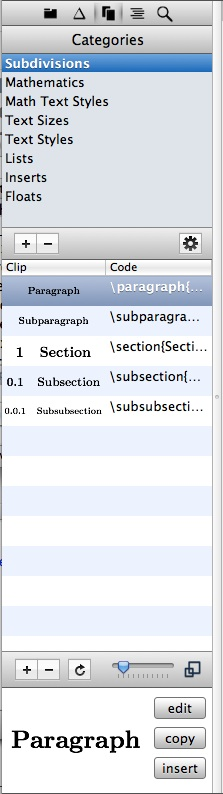
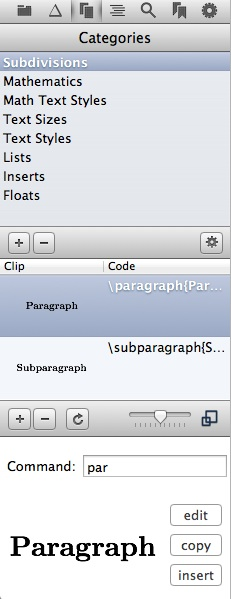
help update

diff --git a/TeXnicle/helpbook/TeXnicle_Help/Clippings_Library.html b/TeXnicle/helpbook/TeXnicle_Help/Clippings_Library.html
@@ -5,8 +5,8 @@
 <html xmlns="http://www.w3.org/1999/xhtml" xml:lang="en" lang="en">
   <head><meta http-equiv="Content-Type" content="text/html; charset=UTF-8" />
     
-    <meta name="Generator" content="iWeb 3.0.3" />
-    <meta name="iWeb-Build" content="local-build-20110605" />
+    <meta name="Generator" content="iWeb 3.0.4" />
+    <meta name="iWeb-Build" content="local-build-20111225" />
     <meta http-equiv="X-UA-Compatible" content="IE=EmulateIE7" />
     <meta name="viewport" content="width=700" />
     <title>The Clippings Library</title>
@@ -71,14 +71,14 @@ new NavBar('widget0', 'Scripts/Widgets/Navbar', 'Scripts/Widgets/SharedResources
           
 
 
-          <div id="id2" style="height: 1204px; left: 1px; position: absolute; top: 129px; width: 695px; z-index: 1; " class="style_SkipStroke_2 shape-with-text">
-            <div class="text-content graphic_textbox_layout_style_default_External_695_1204" style="padding: 0px; ">
+          <div id="id2" style="height: 1009px; left: 1px; position: absolute; top: 129px; width: 695px; z-index: 1; " class="style_SkipStroke_2 shape-with-text">
+            <div class="text-content graphic_textbox_layout_style_default_External_695_1009" style="padding: 0px; ">
               <div class="graphic_textbox_layout_style_default">
                 <p style="padding-top: 0pt; " class="Body">TeXnicle has a built-in library where you can store code snippets. You can organise the snippets in different categories. Some standard categories and clippings are included to get you started. <br /></p>
                 <p class="Body"><br /></p>
                 <p class="Body">To view the clippings library, select the 3rd toolbar icon as below:<br /></p>
                 <p class="Body"><br /></p>
-                <div class="paragraph Body"><div style="height: 794px; width: 223px;  height: 794px; position: relative; width: 223px; " class="tinyText style_SkipStroke_1 inline-block stroke_0 shadow_1"><img src="Clippings_Library_files/droppedImage.jpg" alt="" style="border: none; height: 794px; width: 223px; " /></div><br /></div>
+                <div class="paragraph Body"><div style="height: 599px; width: 231px;  height: 599px; position: relative; width: 231px; " class="tinyText style_SkipStroke_1 inline-block stroke_0 shadow_1"><img src="Clippings_Library_files/droppedImage.jpg" alt="" style="border: none; height: 599px; width: 231px; " /></div><br /></div>
                 <p class="Body"><br /></p>
                 <p class="Body"><br /></p>
                 <p class="Body"><br /></p>
@@ -94,7 +94,7 @@ new NavBar('widget0', 'Scripts/Widgets/Navbar', 'Scripts/Widgets/SharedResources
           
 
 
-          <div style="height: 43px; width: 288px;  height: 42px; left: 213px; position: absolute; top: 281px; width: 193px; z-index: 1; " class="tinyText shadow_2">
+          <div style="height: 43px; width: 288px;  height: 42px; left: 193px; position: absolute; top: 280px; width: 193px; z-index: 1; " class="tinyText shadow_2">
             <div style="position: relative; width: 193px; ">
               <img src="Clippings_Library_files/shapeimage_2.png" alt="Clippings Library" style="height: 43px; left: 0px; margin-left: -94px; position: absolute; top: 0px; width: 288px; " />
             </div>
@@ -102,7 +102,7 @@ new NavBar('widget0', 'Scripts/Widgets/Navbar', 'Scripts/Widgets/SharedResources
           
 
 
-          <div style="height: 52px; width: 232px;  height: 42px; left: 184px; position: absolute; top: 373px; width: 193px; z-index: 1; " class="tinyText shadow_3">
+          <div style="height: 52px; width: 232px;  height: 42px; left: 174px; position: absolute; top: 353px; width: 193px; z-index: 1; " class="tinyText shadow_3">
             <div style="position: relative; width: 193px; ">
               <img src="Clippings_Library_files/shapeimage_3.png" alt="Category List" style="height: 52px; left: 0px; margin-left: -38px; position: absolute; top: 0px; width: 232px; " />
             </div>
@@ -110,7 +110,7 @@ new NavBar('widget0', 'Scripts/Widgets/Navbar', 'Scripts/Widgets/SharedResources
           
 
 
-          <div style="height: 52px; width: 232px;  height: 42px; left: 99px; position: absolute; top: 583px; width: 193px; z-index: 1; " class="tinyText shadow_4">
+          <div style="height: 52px; width: 232px;  height: 42px; left: 106px; position: absolute; top: 515px; width: 193px; z-index: 1; " class="tinyText shadow_4">
             <div style="position: relative; width: 193px; ">
               <img src="Clippings_Library_files/shapeimage_4.png" alt="Rendered Clipping" style="height: 52px; left: 0px; margin-left: -38px; position: absolute; top: 0px; width: 232px; " />
             </div>
@@ -118,15 +118,15 @@ new NavBar('widget0', 'Scripts/Widgets/Navbar', 'Scripts/Widgets/SharedResources
           
 
 
-          <div style="height: 54px; width: 232px;  height: 53px; left: 184px; position: absolute; top: 643px; width: 193px; z-index: 1; " class="tinyText shadow_5">
+          <div style="height: 55px; width: 224px;  height: 53px; left: 229px; position: absolute; top: 569px; width: 193px; z-index: 1; " class="tinyText shadow_5">
             <div style="position: relative; width: 193px; ">
-              <img src="Clippings_Library_files/shapeimage_5.png" alt="Clipping Code" style="height: 54px; left: 0px; margin-left: -38px; position: absolute; top: 0px; width: 232px; " />
+              <img src="Clippings_Library_files/shapeimage_5.png" alt="Clipping Code" style="height: 55px; left: 0px; margin-left: -30px; margin-top: -1px; position: absolute; top: 0px; width: 224px; " />
             </div>
           </div>
           
 
 
-          <div style="height: 54px; width: 229px;  height: 53px; left: 230px; position: absolute; top: 1054px; width: 193px; z-index: 1; " class="tinyText shadow_6">
+          <div style="height: 54px; width: 229px;  height: 53px; left: 262px; position: absolute; top: 861px; width: 193px; z-index: 1; " class="tinyText shadow_6">
             <div style="position: relative; width: 193px; ">
               <img src="Clippings_Library_files/shapeimage_6.png" alt="Insert clipping in to current document" style="height: 54px; left: 0px; margin-left: -35px; position: absolute; top: 0px; width: 229px; " />
             </div>
@@ -134,15 +134,15 @@ new NavBar('widget0', 'Scripts/Widgets/Navbar', 'Scripts/Widgets/SharedResources
           
 
 
-          <div style="height: 72px; width: 194px;  height: 41px; left: 122px; position: absolute; top: 883px; width: 193px; z-index: 1; " class="tinyText shadow_7">
+          <div style="height: 63px; width: 194px;  height: 41px; left: 144px; position: absolute; top: 632px; width: 193px; z-index: 1; " class="tinyText shadow_7">
             <div style="position: relative; width: 193px; ">
-              <img src="Clippings_Library_files/shapeimage_7.png" alt="Change symbol size" style="height: 72px; left: 0px; position: absolute; top: 0px; width: 194px; " />
+              <img src="Clippings_Library_files/shapeimage_7.png" alt="Change symbol size" style="height: 63px; left: 0px; position: absolute; top: 0px; width: 194px; " />
             </div>
           </div>
           
 
 
-          <div style="height: 54px; width: 232px;  height: 53px; left: 230px; position: absolute; top: 939px; width: 193px; z-index: 1; " class="tinyText shadow_8">
+          <div style="height: 54px; width: 232px;  height: 53px; left: 264px; position: absolute; top: 748px; width: 193px; z-index: 1; " class="tinyText shadow_8">
             <div style="position: relative; width: 193px; ">
               <img src="Clippings_Library_files/shapeimage_8.png" alt="Edit the current clipping" style="height: 54px; left: 0px; margin-left: -38px; position: absolute; top: 0px; width: 232px; " />
             </div>
@@ -150,7 +150,7 @@ new NavBar('widget0', 'Scripts/Widgets/Navbar', 'Scripts/Widgets/SharedResources
           
 
 
-          <div style="height: 54px; width: 225px;  height: 53px; left: 230px; position: absolute; top: 995px; width: 193px; z-index: 1; " class="tinyText shadow_9">
+          <div style="height: 54px; width: 225px;  height: 53px; left: 260px; position: absolute; top: 804px; width: 193px; z-index: 1; " class="tinyText shadow_9">
             <div style="position: relative; width: 193px; ">
               <img src="Clippings_Library_files/shapeimage_9.png" alt="Copy the selected clipping to the clipboard" style="height: 54px; left: 0px; margin-left: -31px; position: absolute; top: 0px; width: 225px; " />
             </div>
@@ -158,12 +158,20 @@ new NavBar('widget0', 'Scripts/Widgets/Navbar', 'Scripts/Widgets/SharedResources
           
 
 
-          <div style="height: 81px; width: 194px;  height: 41px; left: 7px; position: absolute; top: 1092px; width: 193px; z-index: 1; " class="tinyText shadow_10">
+          <div style="height: 81px; width: 194px;  height: 41px; left: 17px; position: absolute; top: 887px; width: 193px; z-index: 1; " class="tinyText shadow_10">
             <div style="position: relative; width: 193px; ">
               <img src="Clippings_Library_files/shapeimage_10.png" alt="Large preview" style="height: 81px; left: 0px; margin-top: -39px; position: absolute; top: 0px; width: 194px; " />
             </div>
           </div>
-          <div style="height: 1333px; line-height: 1333px; " class="spacer"> </div>
+          
+
+
+          <div style="height: 63px; width: 228px;  height: 53px; left: 264px; position: absolute; top: 684px; width: 193px; z-index: 1; " class="tinyText shadow_11">
+            <div style="position: relative; width: 193px; ">
+              <img src="Clippings_Library_files/shapeimage_11.png" alt="Clipping Command" style="height: 63px; left: 0px; margin-left: -34px; position: absolute; top: 0px; width: 228px; " />
+            </div>
+          </div>
+          <div style="height: 1300px; line-height: 1300px; " class="spacer"> </div>
         </div>
         <div style="height: 100px; margin-left: 0px; position: relative; width: 700px; z-index: 15; " id="footer_layer">
           <div style="height: 0px; line-height: 0px; " class="bumper"> </div>

diff --git a/TeXnicle/helpbook/TeXnicle_Help/Clippings_Library_files/Clippings_Library.js b/TeXnicle/helpbook/TeXnicle_Help/Clippings_Library_files/Clippings_Library.js
@@ -1,7 +1,7 @@
-// Created by iWeb 3.0.3 local-build-20110605
+// Created by iWeb 3.0.4 local-build-20111225
 
 setTransparentGifURL('Media/transparent.gif');function applyEffects()
-{var registry=IWCreateEffectRegistry();registry.registerEffects({shadow_10:new IWShadow({blurRadius:4,offset:new IWPoint(1.4142,1.4142),color:'#000000',opacity:0.500000}),shadow_1:new IWShadow({blurRadius:4,offset:new IWPoint(1.4142,1.4142),color:'#000000',opacity:0.500000}),shadow_3:new IWShadow({blurRadius:4,offset:new IWPoint(1.4142,1.4142),color:'#000000',opacity:0.500000}),shadow_7:new IWShadow({blurRadius:4,offset:new IWPoint(1.4142,1.4142),color:'#000000',opacity:0.500000}),shadow_2:new IWShadow({blurRadius:4,offset:new IWPoint(1.4142,1.4142),color:'#000000',opacity:0.500000}),shadow_6:new IWShadow({blurRadius:4,offset:new IWPoint(1.4142,1.4142),color:'#000000',opacity:0.500000}),shadow_8:new IWShadow({blurRadius:4,offset:new IWPoint(1.4142,1.4142),color:'#000000',opacity:0.500000}),shadow_5:new IWShadow({blurRadius:4,offset:new IWPoint(1.4142,1.4142),color:'#000000',opacity:0.500000}),shadow_4:new IWShadow({blurRadius:4,offset:new IWPoint(1.4142,1.4142),color:'#000000',opacity:0.500000}),stroke_0:new IWStrokeParts([{rect:new IWRect(-1,1,2,792),url:'Clippings_Library_files/stroke.png'},{rect:new IWRect(-1,-1,2,2),url:'Clippings_Library_files/stroke_1.png'},{rect:new IWRect(1,-1,221,2),url:'Clippings_Library_files/stroke_2.png'},{rect:new IWRect(222,-1,2,2),url:'Clippings_Library_files/stroke_3.png'},{rect:new IWRect(222,1,2,792),url:'Clippings_Library_files/stroke_4.png'},{rect:new IWRect(222,793,2,2),url:'Clippings_Library_files/stroke_5.png'},{rect:new IWRect(1,793,221,2),url:'Clippings_Library_files/stroke_6.png'},{rect:new IWRect(-1,793,2,2),url:'Clippings_Library_files/stroke_7.png'}],new IWSize(223,794)),shadow_9:new IWShadow({blurRadius:4,offset:new IWPoint(1.4142,1.4142),color:'#000000',opacity:0.500000}),shadow_0:new IWShadow({blurRadius:4,offset:new IWPoint(1.4142,1.4142),color:'#000000',opacity:0.500000})});registry.applyEffects();}
+{var registry=IWCreateEffectRegistry();registry.registerEffects({shadow_2:new IWShadow({blurRadius:4,offset:new IWPoint(1.4142,1.4142),color:'#000000',opacity:0.500000}),stroke_0:new IWStrokeParts([{rect:new IWRect(-1,1,2,597),url:'Clippings_Library_files/stroke.png'},{rect:new IWRect(-1,-1,2,2),url:'Clippings_Library_files/stroke_1.png'},{rect:new IWRect(1,-1,229,2),url:'Clippings_Library_files/stroke_2.png'},{rect:new IWRect(230,-1,2,2),url:'Clippings_Library_files/stroke_3.png'},{rect:new IWRect(230,1,2,597),url:'Clippings_Library_files/stroke_4.png'},{rect:new IWRect(230,598,2,2),url:'Clippings_Library_files/stroke_5.png'},{rect:new IWRect(1,598,229,2),url:'Clippings_Library_files/stroke_6.png'},{rect:new IWRect(-1,598,2,2),url:'Clippings_Library_files/stroke_7.png'}],new IWSize(231,599)),shadow_3:new IWShadow({blurRadius:4,offset:new IWPoint(1.4142,1.4142),color:'#000000',opacity:0.500000}),shadow_8:new IWShadow({blurRadius:4,offset:new IWPoint(1.4142,1.4142),color:'#000000',opacity:0.500000}),shadow_9:new IWShadow({blurRadius:4,offset:new IWPoint(1.4142,1.4142),color:'#000000',opacity:0.500000}),shadow_1:new IWShadow({blurRadius:4,offset:new IWPoint(1.4142,1.4142),color:'#000000',opacity:0.500000}),shadow_0:new IWShadow({blurRadius:4,offset:new IWPoint(1.4142,1.4142),color:'#000000',opacity:0.500000}),shadow_4:new IWShadow({blurRadius:4,offset:new IWPoint(1.4142,1.4142),color:'#000000',opacity:0.500000}),shadow_6:new IWShadow({blurRadius:4,offset:new IWPoint(1.4142,1.4142),color:'#000000',opacity:0.500000}),shadow_10:new IWShadow({blurRadius:4,offset:new IWPoint(1.4142,1.4142),color:'#000000',opacity:0.500000}),shadow_11:new IWShadow({blurRadius:4,offset:new IWPoint(1.4142,1.4142),color:'#000000',opacity:0.500000}),shadow_7:new IWShadow({blurRadius:4,offset:new IWPoint(1.4142,1.4142),color:'#000000',opacity:0.500000}),shadow_5:new IWShadow({blurRadius:4,offset:new IWPoint(1.4142,1.4142),color:'#000000',opacity:0.500000})});registry.applyEffects();}
 function hostedOnDM()
 {return false;}
 function onPageLoad()

diff --git a/TeXnicle/helpbook/TeXnicle_Help/Clippings_Library_files/Clippings_Library.css b/TeXnicle/helpbook/TeXnicle_Help/Clippings_Library_files/Clippings_Library.css
@@ -104,11 +104,11 @@
 .graphic_shape_layout_style_default_External_587_72 {
     position: relative;
 }
+.graphic_textbox_layout_style_default_External_695_1009 {
+    position: relative;
+}
 .graphic_textbox_layout_style_default {
     padding: 4px;
-}
-.graphic_textbox_layout_style_default_External_695_1204 {
-    position: relative;
 }
 .graphic_textbox_style_default_SkipStroke {
     background: transparent;
